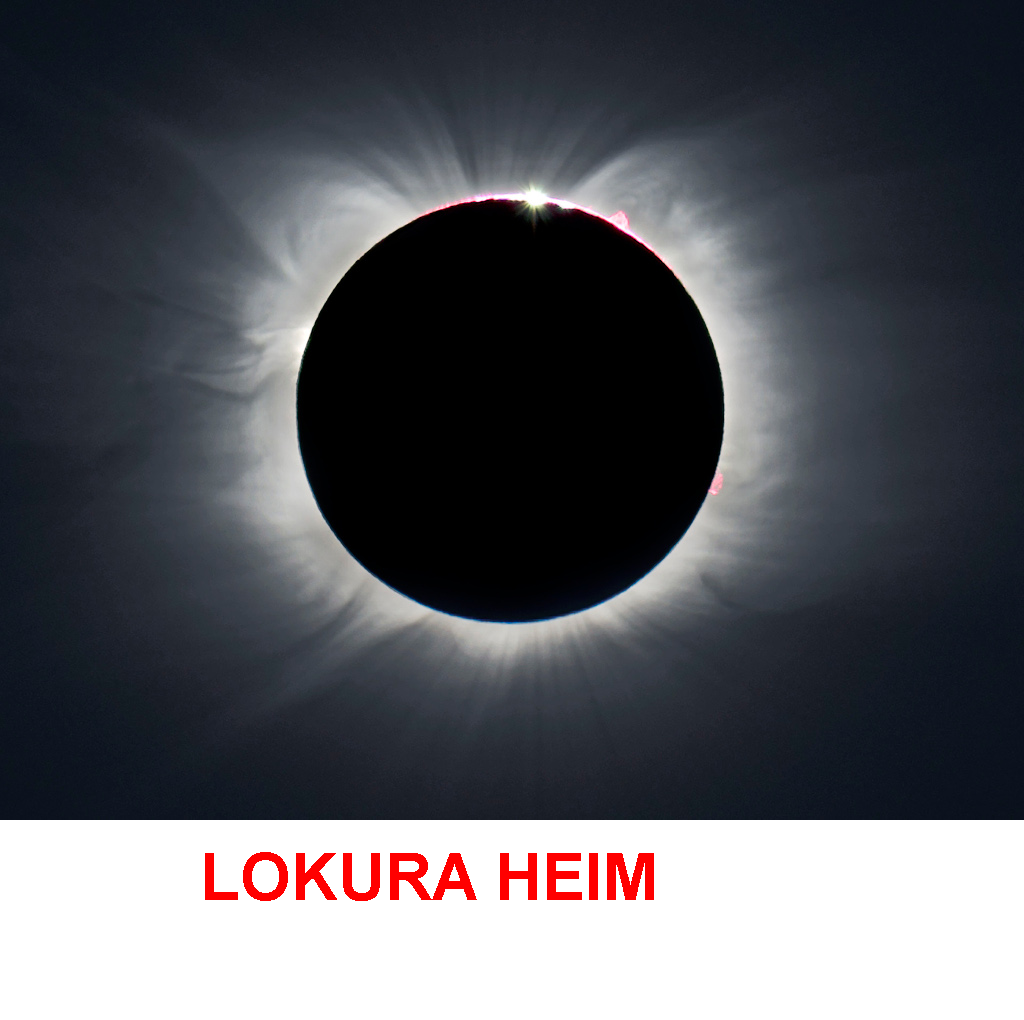
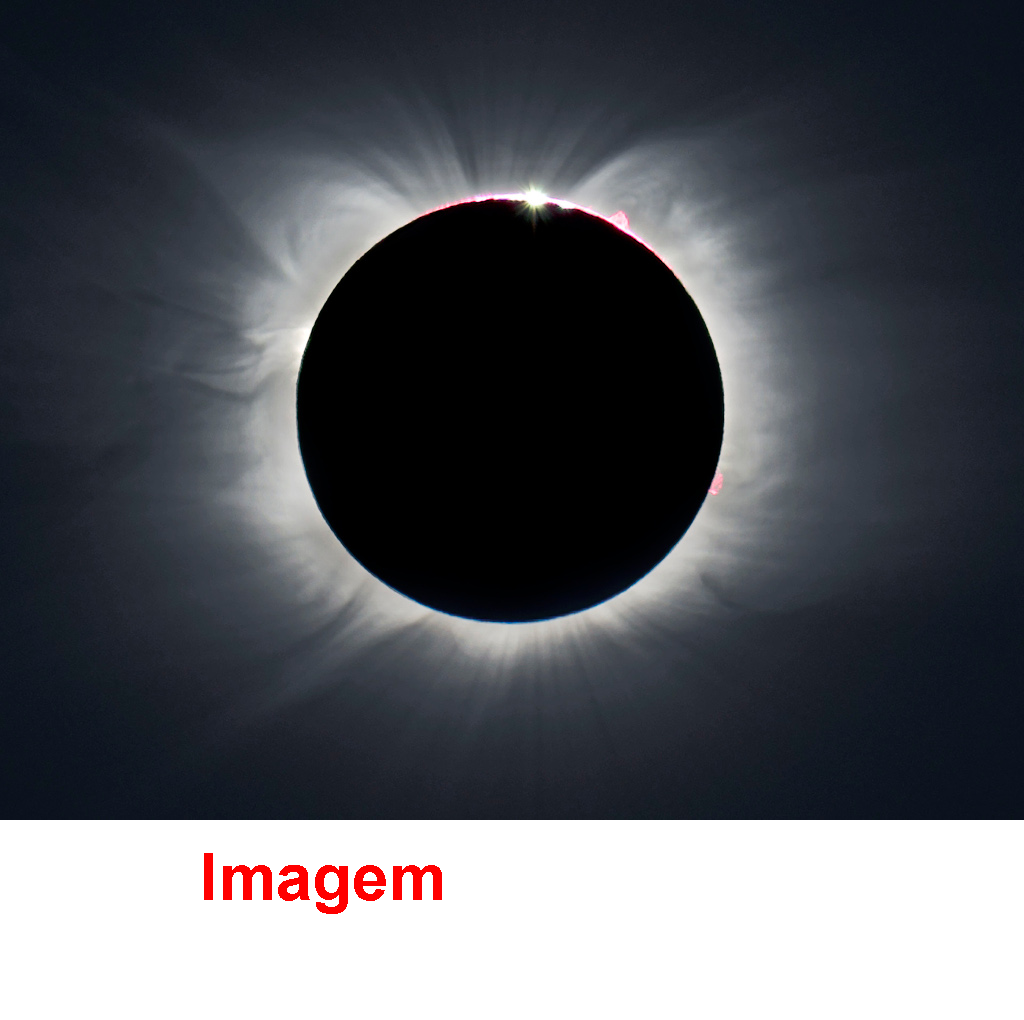
.

Changed region(s): [[0.1875, 0.8206, 0.6562, 0.9118]]

diff --git a/src/geradoraDeFigurinhas.java b/src/geradoraDeFigurinhas.java
@@ -37,7 +37,7 @@ public class geradoraDeFigurinhas {
         grafics.setFont(font);
         
         //escrever uma frase na nova imagem
-        grafics.drawString("LOKURA HEIM", 200, novaAltura - 120);
+        grafics.drawString("Imagem", 200, novaAltura - 120);
 
         //escrever a imagem em um arquivo
         ImageIO.write(novaImagem, "png", new File(nomeArquivo));
